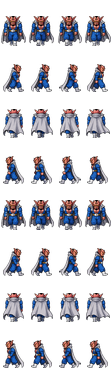
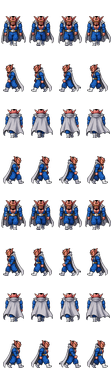
Fix boss side-facing globally: right row faces right
The source art's "RIGHT SIDE" row is drawn as the character's right side visible
(i.e. facing left). The game reads row 1 for AnimateRight and row 3 for
AnimateLeft as dedicated rows, so the right row must be the source mirrored and
the left row the source as-is. Previously it was reversed, so every boss faced
the wrong way when moving sideways (only turned one direction). All boss sheets
regenerated.

diff --git a/tools/process_bosses.py b/tools/process_bosses.py
@@ -131,7 +131,11 @@ def build(name, kind, fw, fh, rows):
     sheet = Image.new("RGBA", (4*fw, nrows*fh), (0,0,0,0))
     for row in range(nrows):
         facing = ROW_FACING[row % len(ROW_FACING)]
-        flip = facing == 3            # left is the right-side art mirrored
+        # The source "RIGHT SIDE" row is drawn facing LEFT (the character's right side is
+        # shown). The game reads row 1 for AnimateRight and row 3 for AnimateLeft as dedicated
+        # rows (no auto-flip), so the RIGHT row must be the source mirrored to face right, and
+        # the LEFT row is the source in its natural left-facing orientation.
+        flip = facing == 1            # right = the left-facing source art, mirrored
         src_facing = 1 if facing == 3 else facing
         frames = facings.get(src_facing) or facings.get(2) or []
         for col in range(4):
